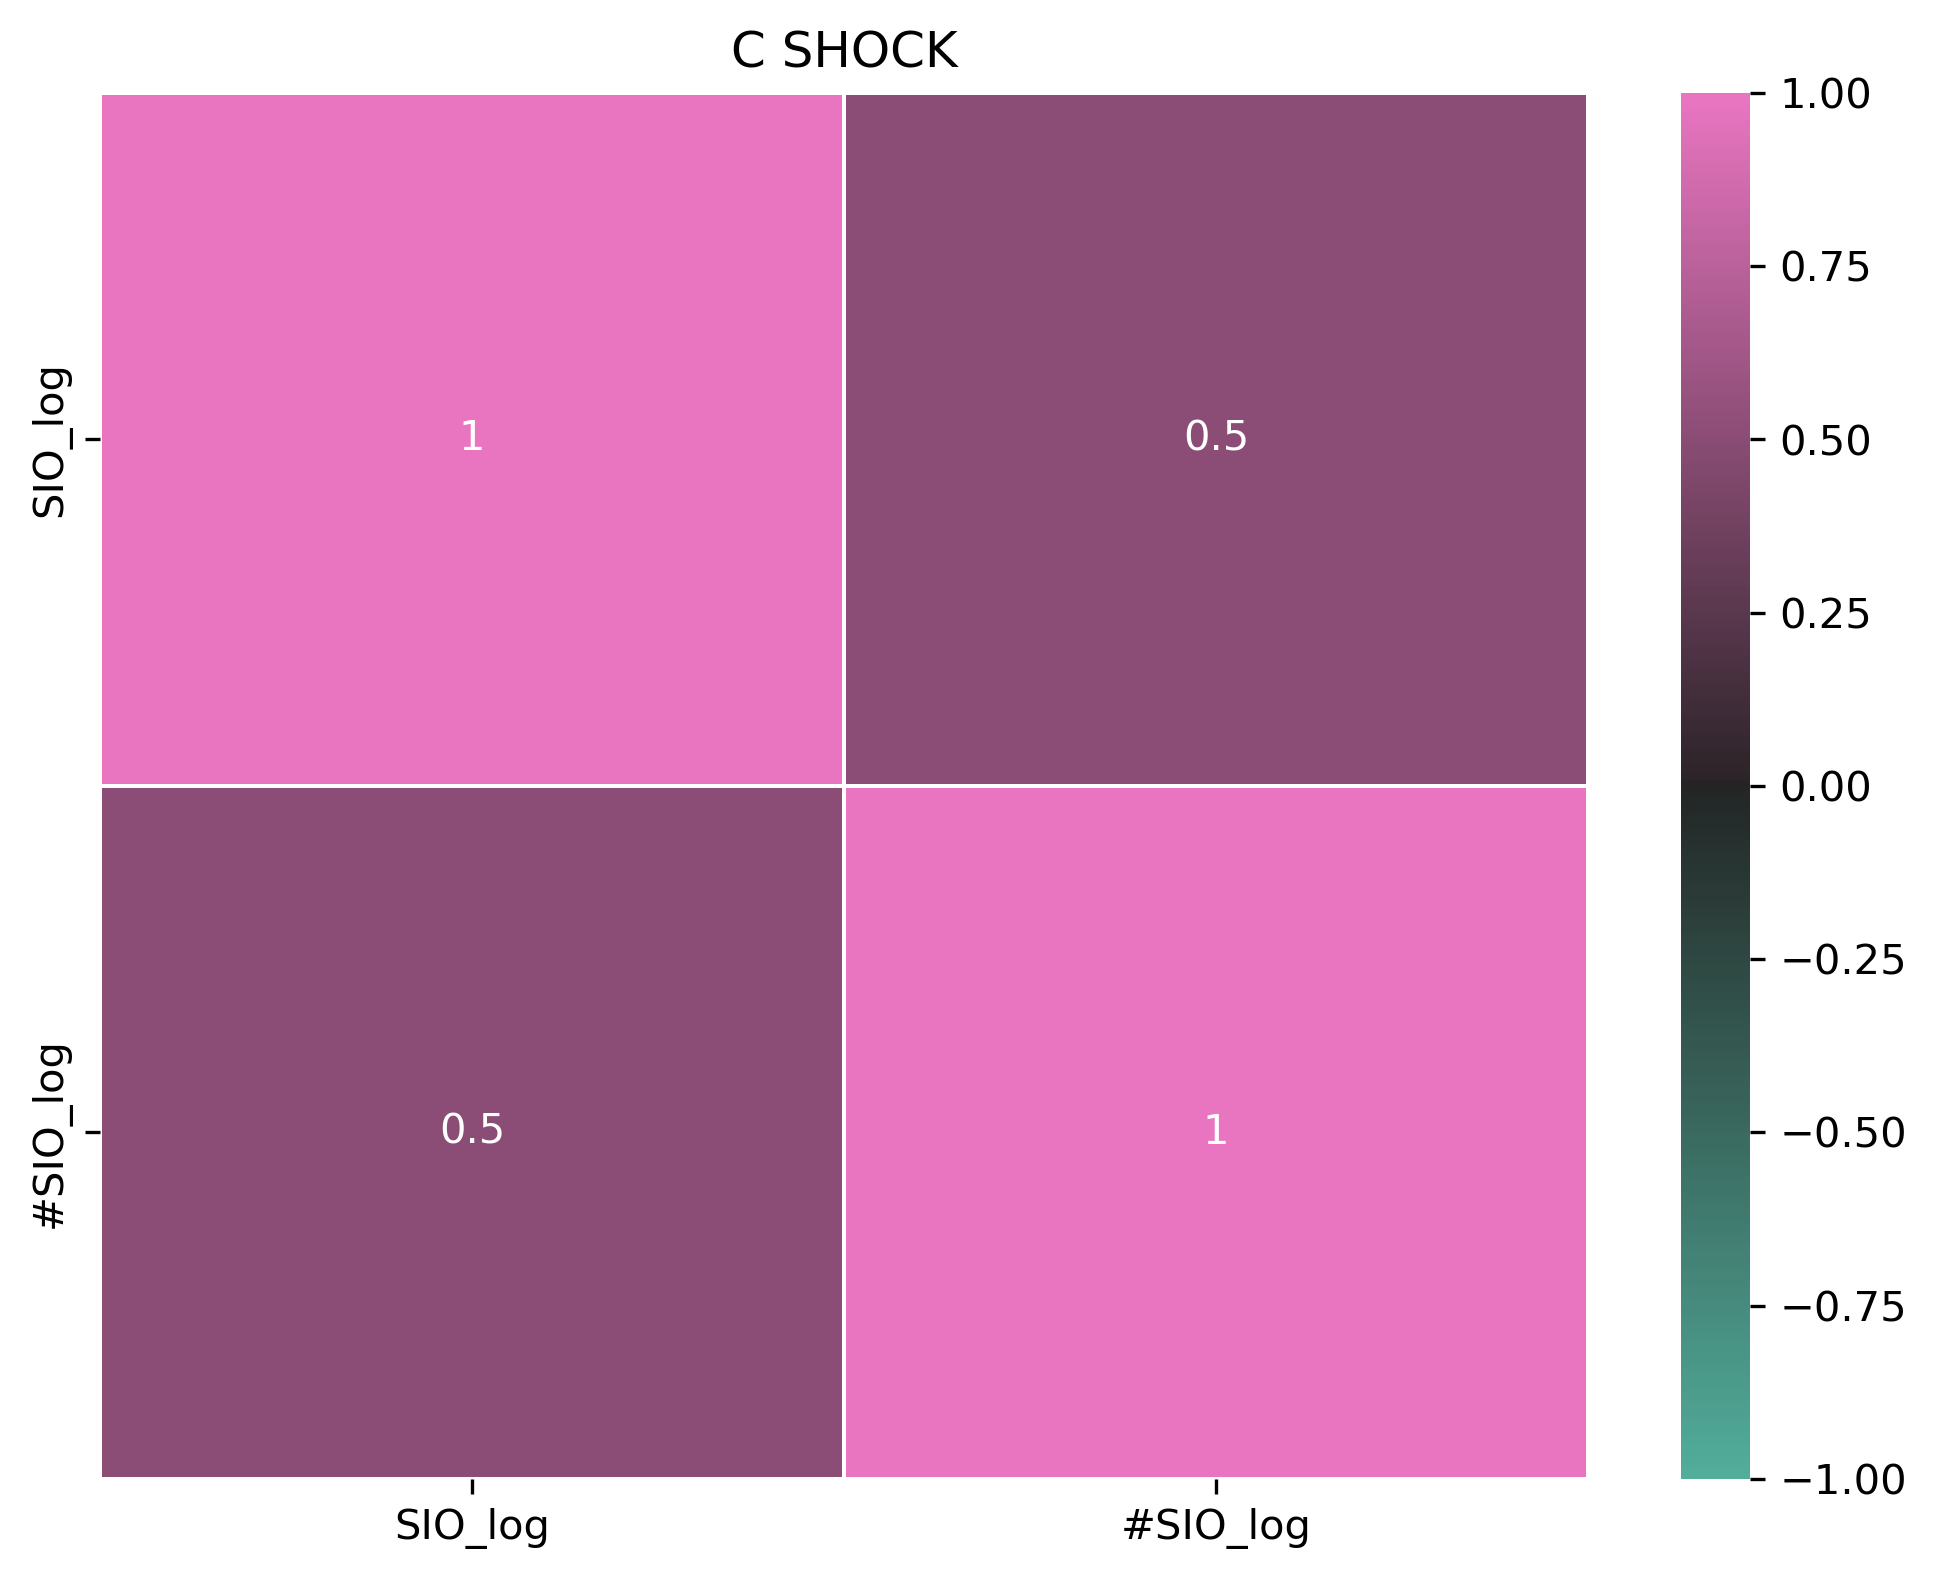
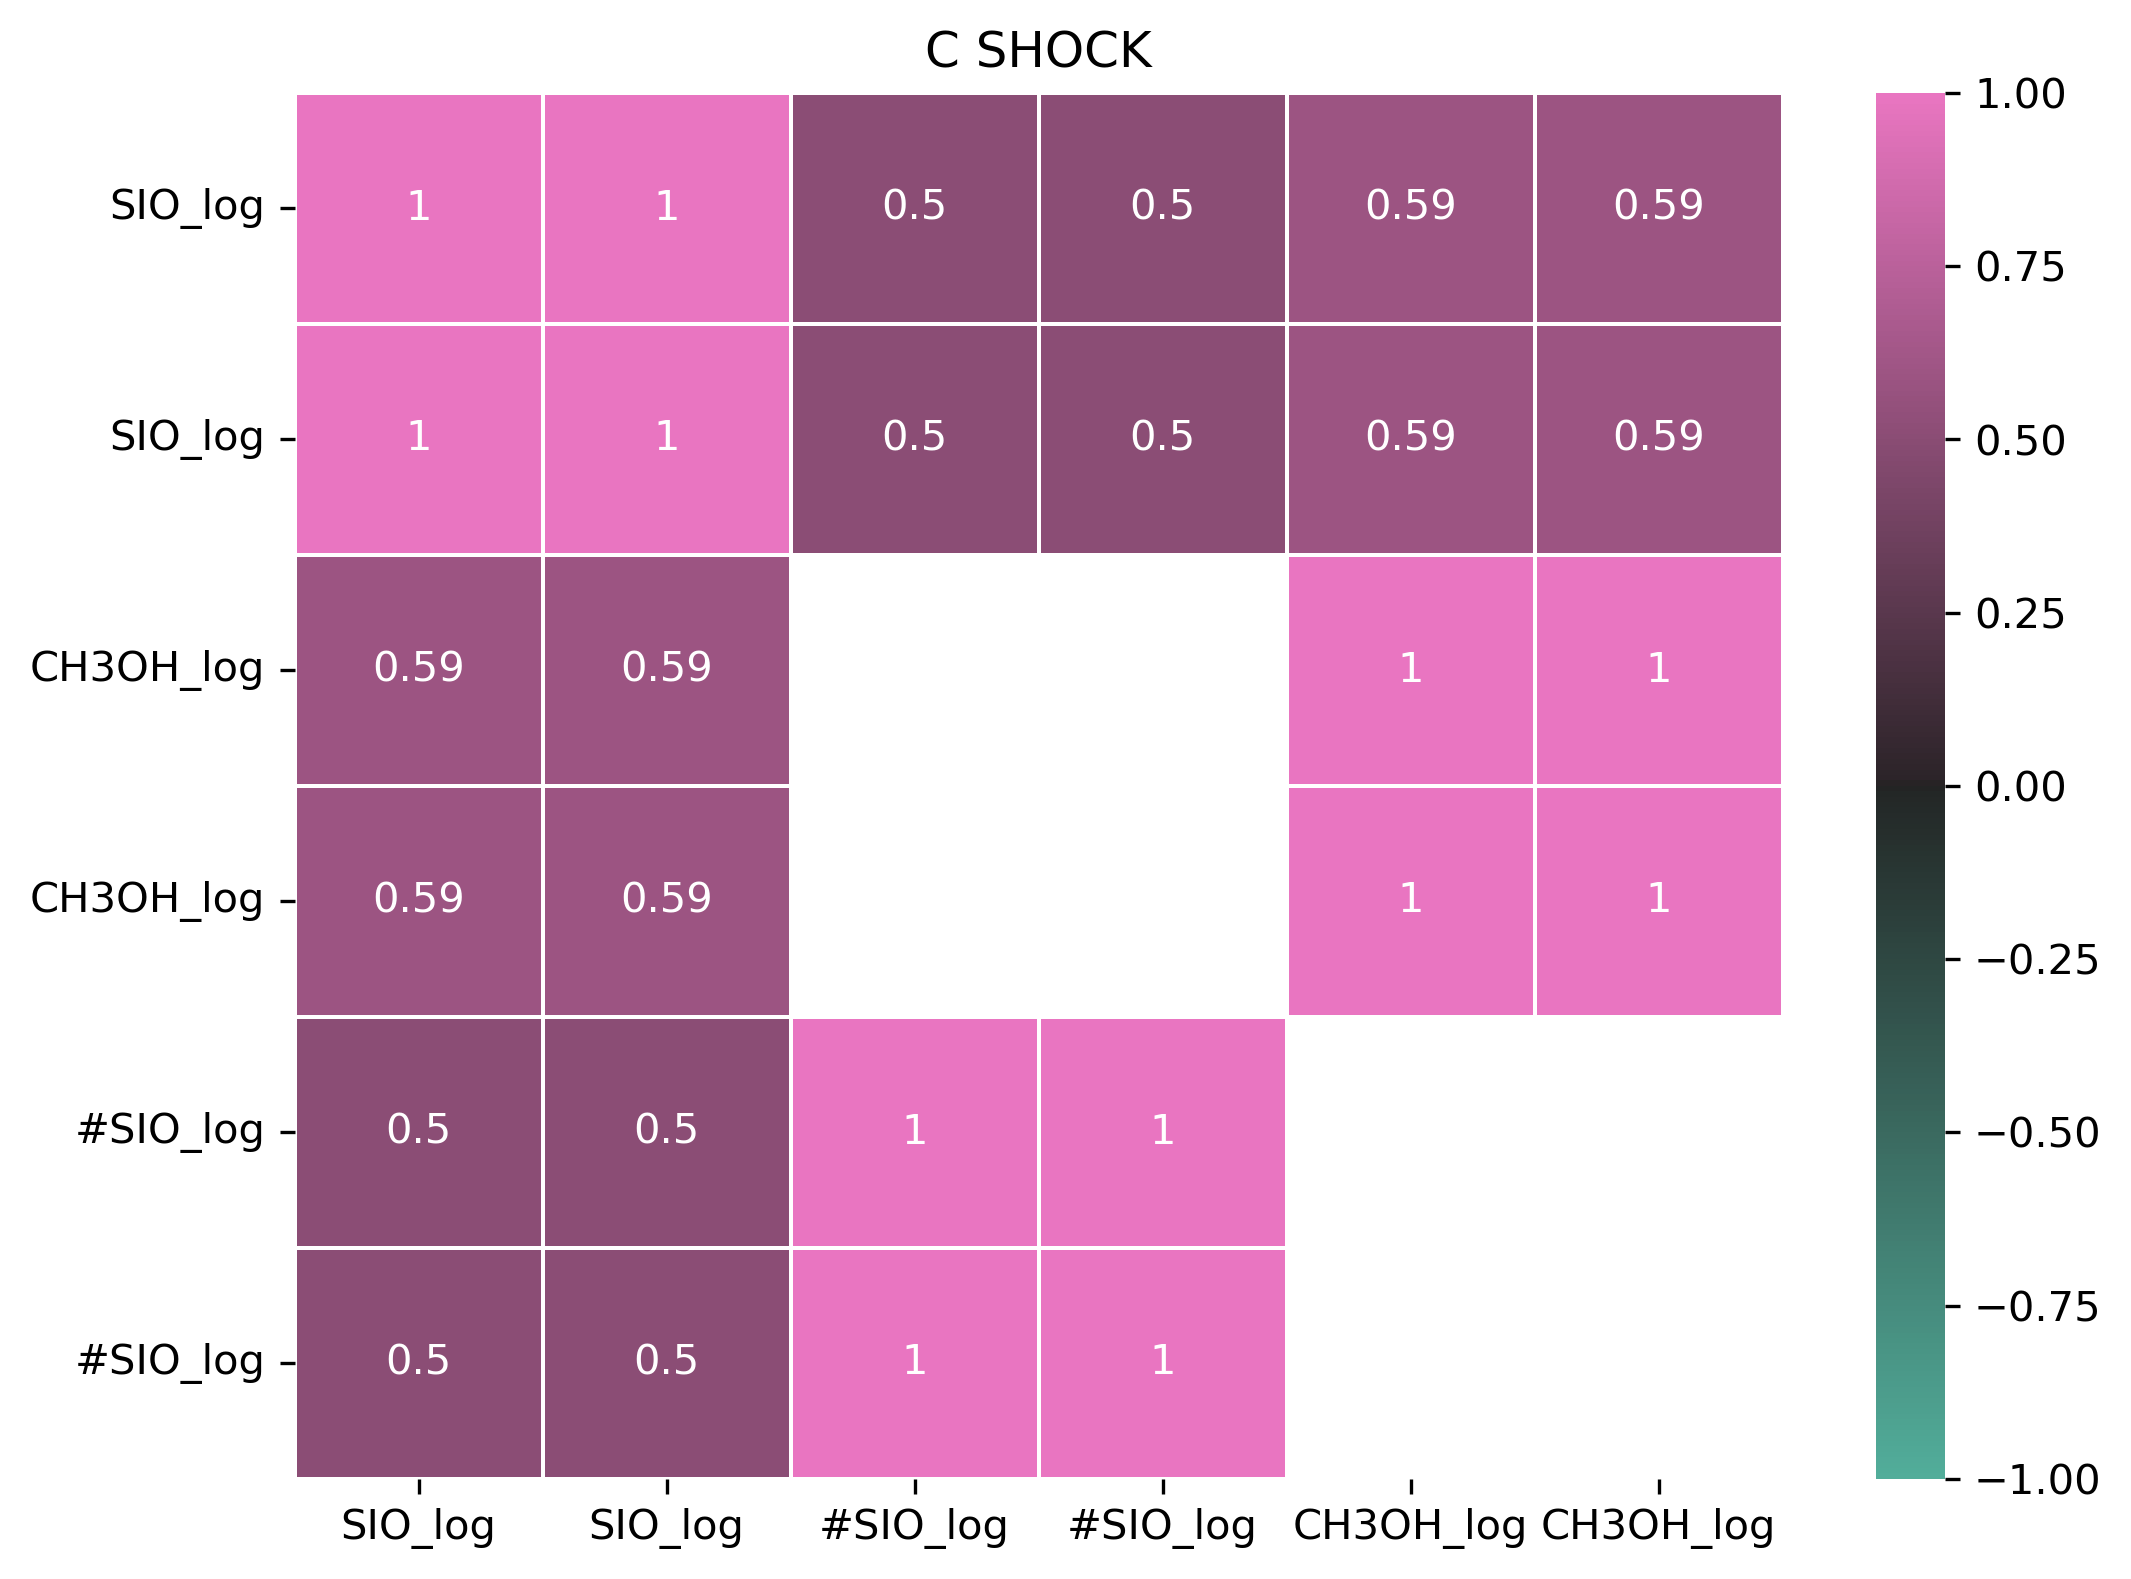
last plots for the day :)

diff --git a/Analysis/Plotting.py b/Analysis/Plotting.py
@@ -13,7 +13,8 @@ def isValid(x, y):
     elif x.strip('#@$')==y.strip('#@$'): return True
     for sym in phases:
         if sym in x and sym in y: return True
-    return False
+    
+    return True
 
 def getCorrValues(cor, singleAxis):
     corrList=[]
@@ -22,9 +23,8 @@ def getCorrValues(cor, singleAxis):
             if not np.isnan(cor.loc[i,j]) and np.abs(cor.loc[i,j])>0.5:
                 x=j.replace('_log','')
                 y=i.replace('_log','')
-                if singleAxis:
-                    if isValid(x,y): corrList.append({'x': j, 'y': i})
-                else: corrList.append({'x': j, 'y': i})
+                
+                if isValid(x,y): corrList.append({'x': j, 'y': i})
     return [row['x'] for row in corrList], [row['y'] for row in corrList]
 
 def corrGrid(df, xaxis, yaxis, tipo: str, barrera=0):
